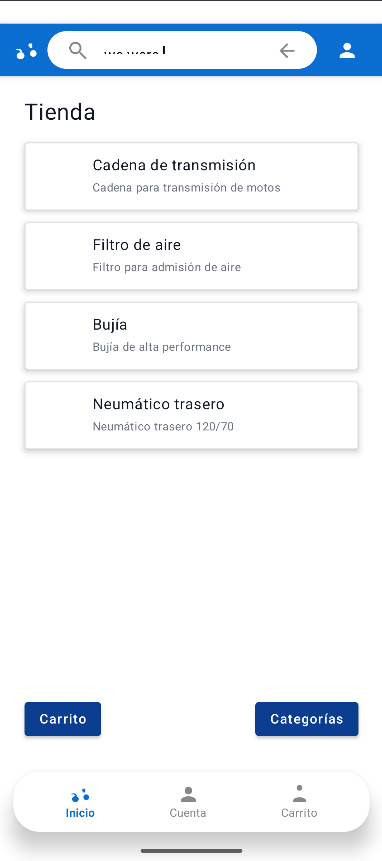
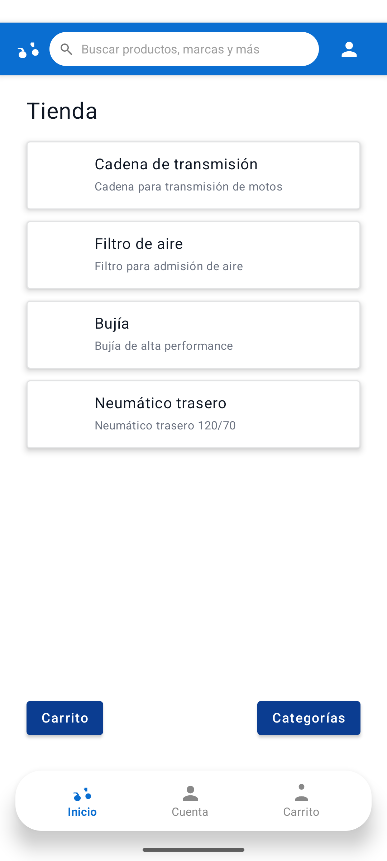
Te dejo el resto en tus manos bro.

diff --git a/app/src/main/java/com/example/facturacion_inventario/ui/store/StoreHost.kt b/app/src/main/java/com/example/facturacion_inventario/ui/store/StoreHost.kt
@@ -121,9 +121,12 @@ fun StoreHost(authViewModel: AuthViewModel, rootNavController: NavController) {
             val activity = (context as? Activity)
             activity?.window?.statusBarColor = topBarBlue.toArgb()
             activity?.let { act ->
-                // permitir que la app dibuje detrás de las barras del sistema
-                WindowCompat.setDecorFitsSystemWindows(act.window, false)
+                // Antes: la app dibujaba detrás de las barras del sistema (false)
+                // Cambio: permitimos que el sistema gestione las barras para que
+                // la hora/batería sean visibles tal como en la imagen de ejemplo.
+                WindowCompat.setDecorFitsSystemWindows(act.window, true)
                 val controller = WindowCompat.getInsetsController(act.window, view)
+                // iconos en la barra de estado en blanco (porque el fondo es azul oscuro)
                 controller.isAppearanceLightStatusBars = false // icons light (white)
             }
         }
@@ -182,31 +185,32 @@ fun StoreHost(authViewModel: AuthViewModel, rootNavController: NavController) {
             }
         },
         bottomBar = {
-            // Barra inferior estilo elevado y central
+            // Barra inferior estilo cápsula (ajustada para parecerse a la referencia)
             if (!isSearchActive) {
                 Box(modifier = Modifier
                     .fillMaxWidth()
                     .navigationBarsPadding()
-                    .padding(vertical = 8.dp), contentAlignment = Alignment.Center) {
+                    .padding(vertical = 10.dp), contentAlignment = Alignment.Center) {
                     Surface(
                         shape = RoundedCornerShape(28.dp),
-                        elevation = 12.dp,
+                        elevation = 16.dp,
                         color = Color.White,
                         modifier = Modifier
                             .fillMaxWidth(0.92f)
-                            .height(64.dp)
+                            .height(62.dp)
                     ) {
                         Row(modifier = Modifier
                             .fillMaxSize()
-                            .padding(horizontal = 16.dp), horizontalArrangement = Arrangement.SpaceAround, verticalAlignment = Alignment.CenterVertically) {
+                            .padding(horizontal = 8.dp), horizontalArrangement = Arrangement.SpaceAround, verticalAlignment = Alignment.CenterVertically) {
 
                             // Home
                             Column(horizontalAlignment = Alignment.CenterHorizontally, modifier = Modifier.clickable {
                                 selectedTab = "home"
                                 storeNavController.navigate("home") { popUpTo("home") }
                             }) {
-                                Icon(painter = painterResource(id = R.drawable.ic_motorcycle_animated), contentDescription = "home", tint = if (selectedTab == "home") topBarBlue else Color.Gray)
-                                Text(text = "Inicio", color = if (selectedTab == "home") topBarBlue else Color.Gray, fontWeight = if (selectedTab == "home") FontWeight.Bold else FontWeight.Normal, style = MaterialTheme.typography.caption)
+                                Icon(painter = painterResource(id = R.drawable.ic_motorcycle_animated), contentDescription = "home", tint = if (selectedTab == "home") topBarBlue else Color(0xFF9E9E9E), modifier = Modifier.size(26.dp))
+                                Spacer(modifier = Modifier.height(2.dp))
+                                Text(text = "Inicio", color = if (selectedTab == "home") topBarBlue else Color(0xFF9E9E9E), fontWeight = if (selectedTab == "home") FontWeight.SemiBold else FontWeight.Normal, style = MaterialTheme.typography.caption)
                             }
 
                             // Profile
@@ -214,8 +218,9 @@ fun StoreHost(authViewModel: AuthViewModel, rootNavController: NavController) {
                                 selectedTab = "profile"
                                 storeNavController.navigate("profile") { popUpTo("home") }
                             }) {
-                                Icon(painter = painterResource(id = R.drawable.ic_person), contentDescription = "profile", tint = if (selectedTab == "profile") topBarBlue else Color.Gray)
-                                Text(text = "Cuenta", color = if (selectedTab == "profile") topBarBlue else Color.Gray, fontWeight = if (selectedTab == "profile") FontWeight.Bold else FontWeight.Normal, style = MaterialTheme.typography.caption)
+                                Icon(painter = painterResource(id = R.drawable.ic_person), contentDescription = "profile", tint = if (selectedTab == "profile") topBarBlue else Color(0xFF9E9E9E), modifier = Modifier.size(26.dp))
+                                Spacer(modifier = Modifier.height(2.dp))
+                                Text(text = "Cuenta", color = if (selectedTab == "profile") topBarBlue else Color(0xFF9E9E9E), fontWeight = if (selectedTab == "profile") FontWeight.SemiBold else FontWeight.Normal, style = MaterialTheme.typography.caption)
                             }
 
                             // Cart
@@ -223,8 +228,9 @@ fun StoreHost(authViewModel: AuthViewModel, rootNavController: NavController) {
                                 selectedTab = "cart"
                                 storeNavController.navigate("cart") { popUpTo("home") }
                             }) {
-                                Icon(painter = painterResource(id = R.drawable.ic_badge), contentDescription = "cart", tint = if (selectedTab == "cart") topBarBlue else Color.Gray)
-                                Text(text = "Carrito", color = if (selectedTab == "cart") topBarBlue else Color.Gray, fontWeight = if (selectedTab == "cart") FontWeight.Bold else FontWeight.Normal, style = MaterialTheme.typography.caption)
+                                Icon(painter = painterResource(id = R.drawable.ic_badge), contentDescription = "cart", tint = if (selectedTab == "cart") topBarBlue else Color(0xFF9E9E9E), modifier = Modifier.size(26.dp))
+                                Spacer(modifier = Modifier.height(2.dp))
+                                Text(text = "Carrito", color = if (selectedTab == "cart") topBarBlue else Color(0xFF9E9E9E), fontWeight = if (selectedTab == "cart") FontWeight.SemiBold else FontWeight.Normal, style = MaterialTheme.typography.caption)
                             }
                         }
                     }

diff --git a/app/src/main/java/com/example/facturacion_inventario/ui/store/ProfileScreen.kt b/app/src/main/java/com/example/facturacion_inventario/ui/store/ProfileScreen.kt
@@ -2,7 +2,7 @@ package com.example.facturacion_inventario.ui.store
 
 import androidx.compose.foundation.layout.*
 import androidx.compose.material.*
-import androidx.compose.runtime.Composable
+import androidx.compose.runtime.*
 import androidx.compose.ui.Alignment
 import androidx.compose.ui.Modifier
 import androidx.compose.ui.unit.dp
@@ -15,30 +15,64 @@ fun ProfileScreen(authViewModel: AuthViewModel, rootNavController: NavController
     val apellido = authViewModel.getApellido()
     val username = authViewModel.getUsername()
 
+    // Estado: si el usuario decidió omitir el inicio de sesión
+    val skipped by authViewModel.skippedLogin.collectAsState()
+
     Surface(modifier = Modifier.fillMaxSize()) {
         Column(modifier = Modifier
             .fillMaxSize()
             .padding(16.dp), horizontalAlignment = Alignment.CenterHorizontally) {
             Spacer(modifier = Modifier.height(24.dp))
-            Text(text = "Perfil", style = MaterialTheme.typography.h5, color = MaterialTheme.colors.onBackground)
-            Spacer(modifier = Modifier.height(12.dp))
-            Text(text = "Nombre: ${nombre.orEmpty()} ${apellido.orEmpty()}", color = MaterialTheme.colors.onSurface)
-            Spacer(modifier = Modifier.height(6.dp))
-            Text(text = "Usuario: ${username ?: "-"}", color = MaterialTheme.colors.onSurface.copy(alpha = 0.8f))
 
-            Spacer(modifier = Modifier.weight(1f))
+            if (skipped) {
+                // UI para usuario invitado que omitió el login
+                Text(text = "Perfil", style = MaterialTheme.typography.h5, color = MaterialTheme.colors.onBackground)
+                Spacer(modifier = Modifier.height(12.dp))
+                Text(text = "Estás usando la aplicación como invitado.")
+                Spacer(modifier = Modifier.height(8.dp))
+                Text(text = "Para acceder a tu perfil, historial y compras debes registrarte o iniciar sesión.")
 
-            Button(onClick = {
-                // Cerrar sesión y volver a login en el nav principal
-                authViewModel.logout()
-                rootNavController.navigate("login") {
-                    popUpTo("store") { inclusive = true }
+                Spacer(modifier = Modifier.height(24.dp))
+
+                Button(onClick = {
+                    // Navegar a login
+                    rootNavController.navigate("login")
+                }, modifier = Modifier.fillMaxWidth(), colors = ButtonDefaults.buttonColors(backgroundColor = MaterialTheme.colors.primary)) {
+                    Text(text = "Iniciar sesión", color = MaterialTheme.colors.onPrimary)
                 }
-            }, modifier = Modifier.fillMaxWidth(), colors = ButtonDefaults.buttonColors(backgroundColor = MaterialTheme.colors.primary)) {
-                Text(text = "Cerrar sesión", color = MaterialTheme.colors.onPrimary)
-            }
 
-            Spacer(modifier = Modifier.height(16.dp))
+                Spacer(modifier = Modifier.height(12.dp))
+
+                OutlinedButton(onClick = {
+                    rootNavController.navigate("register")
+                }, modifier = Modifier.fillMaxWidth()) {
+                    Text(text = "Crear cuenta")
+                }
+
+                Spacer(modifier = Modifier.weight(1f))
+
+            } else {
+                // UI para usuario autenticado (o anónimo no-skipped pero sin datos)
+                Text(text = "Perfil", style = MaterialTheme.typography.h5, color = MaterialTheme.colors.onBackground)
+                Spacer(modifier = Modifier.height(12.dp))
+                Text(text = "Nombre: ${nombre.orEmpty()} ${apellido.orEmpty()}", color = MaterialTheme.colors.onSurface)
+                Spacer(modifier = Modifier.height(6.dp))
+                Text(text = "Usuario: ${username ?: "-"}", color = MaterialTheme.colors.onSurface.copy(alpha = 0.8f))
+
+                Spacer(modifier = Modifier.weight(1f))
+
+                Button(onClick = {
+                    // Cerrar sesión y volver a login en el nav principal
+                    authViewModel.logout()
+                    rootNavController.navigate("login") {
+                        popUpTo("store") { inclusive = true }
+                    }
+                }, modifier = Modifier.fillMaxWidth(), colors = ButtonDefaults.buttonColors(backgroundColor = MaterialTheme.colors.primary)) {
+                    Text(text = "Cerrar sesión", color = MaterialTheme.colors.onPrimary)
+                }
+
+                Spacer(modifier = Modifier.height(16.dp))
+            }
         }
     }
 }

diff --git a/app/src/main/java/com/example/auth/AuthViewModel.kt b/app/src/main/java/com/example/auth/AuthViewModel.kt
@@ -28,10 +28,16 @@ class AuthViewModel(application: Application, private val repo: AuthDataSource) 
     private val _isAuthenticated = MutableStateFlow(false)
     val isAuthenticated: StateFlow<Boolean> = _isAuthenticated.asStateFlow()
 
+    // Nuevo flag para indicar que el usuario decidió omitir el inicio de sesión
+    private val _skippedLogin = MutableStateFlow(false)
+    val skippedLogin: StateFlow<Boolean> = _skippedLogin.asStateFlow()
+
     init {
         // Inicializar estado autenticado desde almacenamiento local
         val token = TokenStorage.getAccessToken(getApplication())
         _isAuthenticated.value = !token.isNullOrEmpty()
+        // Si ya hay token, aseguramos que skipped sea false
+        _skippedLogin.value = false
     }
 
     fun login(usernameOrEmail: String, password: String) {
@@ -47,6 +53,8 @@ class AuthViewModel(application: Application, private val repo: AuthDataSource) 
                 TokenStorage.setUserFromMap(getApplication(), resp?.user)
 
                 _isAuthenticated.value = true
+                // login real, limpiar el flag de skip
+                _skippedLogin.value = false
                 _uiState.value = AuthUiState(success = true)
             } catch (ex: Exception) {
                 _uiState.value = AuthUiState(errorMessage = ex.message ?: "Error desconocido")
@@ -66,11 +74,20 @@ class AuthViewModel(application: Application, private val repo: AuthDataSource) 
                 TokenStorage.setUserFromMap(getApplication(), resp?.user)
 
                 _isAuthenticated.value = true
+                // registro real, limpiar skip
+                _skippedLogin.value = false
                 _uiState.value = AuthUiState(success = true)
             } catch (ex: Exception) {
                 _uiState.value = AuthUiState(errorMessage = ex.message ?: "Error desconocido")
             }
         }
+    }
+
+    // Permite omitir el inicio de sesión y navegar como usuario anónimo
+    fun skipLogin() {
+        _skippedLogin.value = true
+        _isAuthenticated.value = false
+        // no guardamos tokens; es solo un modo anónimo
     }
 
     // Limpia errores/flags después de manejarlos desde la UI
@@ -85,6 +102,7 @@ class AuthViewModel(application: Application, private val repo: AuthDataSource) 
     fun logout() {
         TokenStorage.clear(getApplication())
         _isAuthenticated.value = false
+        _skippedLogin.value = false
         _uiState.value = AuthUiState()
     }
 

diff --git a/app/src/main/java/com/example/facturacion_inventario/ui/login/LoginScreen.kt b/app/src/main/java/com/example/facturacion_inventario/ui/login/LoginScreen.kt
@@ -170,6 +170,22 @@ fun LoginScreen(authViewModel: AuthViewModel, navController: NavController? = nu
                             TextButton(onClick = { navController?.navigate("register") }, modifier = Modifier.fillMaxWidth()) {
                                 Text(text = "Crear cuenta", color = MaterialTheme.colors.primary)
                             }
+
+                            Spacer(Modifier.height(8.dp))
+
+                            // Nuevo: botón para omitir inicio de sesión y continuar como invitado
+                            TextButton(onClick = {
+                                // marcar skip y navegar al store
+                                authViewModel.skipLogin()
+                                onLoginSuccess?.invoke()
+                                navController?.let { nc ->
+                                    nc.navigate("store") {
+                                        popUpTo("login") { inclusive = true }
+                                    }
+                                }
+                            }, modifier = Modifier.fillMaxWidth()) {
+                                Text(text = "Omitir inicio de sesión", color = MaterialTheme.colors.onSurface.copy(alpha = 0.8f))
+                            }
                         }
                     }
                 }
